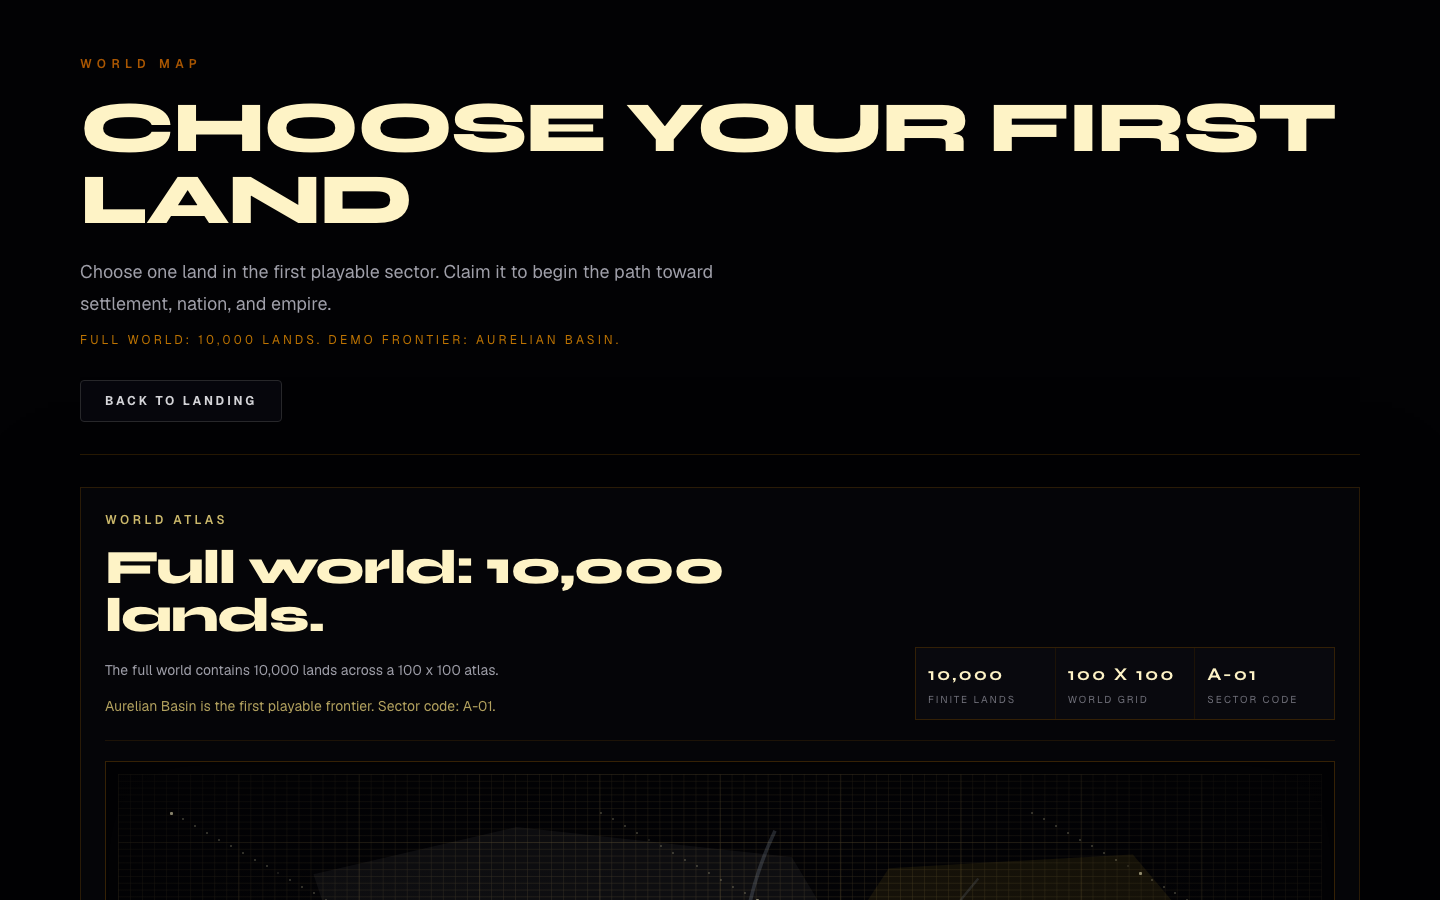
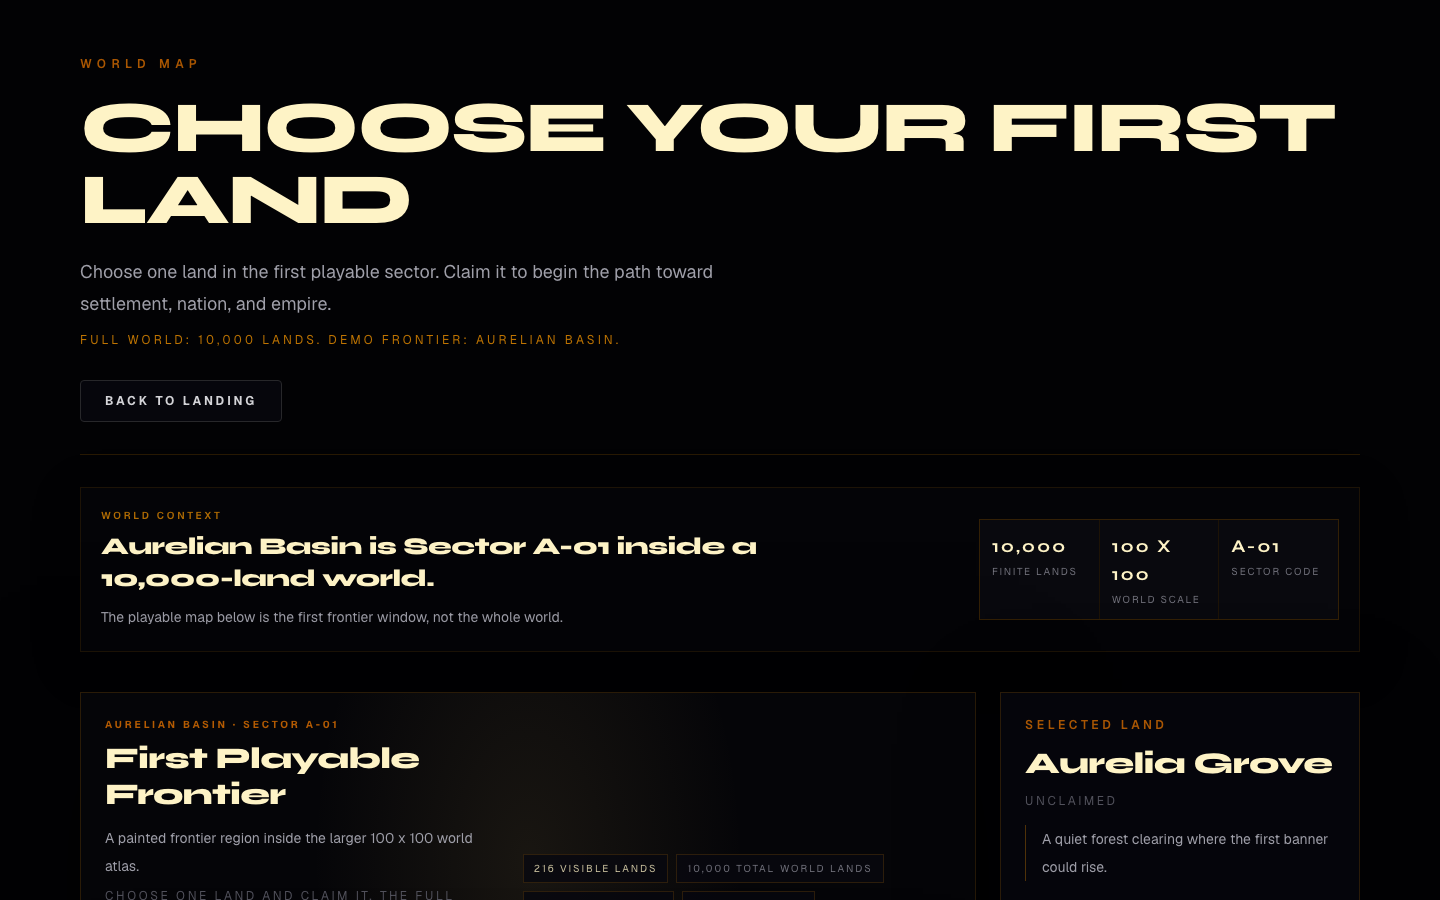
Fix world map v8 first impression hierarchy

diff --git a/app/world/page.tsx b/app/world/page.tsx
@@ -422,31 +422,28 @@ export default function WorldPage() {
         <section
           id="world-atlas"
           data-qa="world-atlas"
-          className="mt-6 overflow-hidden border border-amber-500/15 bg-[#050509]/90 p-3 shadow-[0_24px_90px_rgba(0,0,0,0.5)] sm:mt-8 sm:p-6"
+          className="mt-6 overflow-hidden border border-amber-500/10 bg-[#050509]/72 p-4 shadow-[0_12px_44px_rgba(0,0,0,0.32)] sm:mt-8 sm:p-5"
         >
-          <div className="mb-5 grid gap-5 border-b border-amber-500/10 pb-5 lg:grid-cols-[minmax(0,1fr)_420px] lg:items-end">
-            <div className="max-w-3xl">
-              <p className="text-xs font-semibold uppercase tracking-[0.3em] text-amber-200/80">
-                World Atlas
+          <div className="grid gap-4 lg:grid-cols-[minmax(0,1fr)_360px] lg:items-center">
+            <div className="max-w-2xl">
+              <p className="text-[10px] font-semibold uppercase tracking-[0.28em] text-amber-500/70">
+                World Context
               </p>
-              <h2 className="mt-4 font-[family-name:var(--font-syne)] text-3xl font-extrabold tracking-tight text-amber-100 sm:text-5xl">
-                Full world: 10,000 lands.
+              <h2 className="mt-2 font-[family-name:var(--font-syne)] text-xl font-extrabold tracking-tight text-amber-100 sm:text-2xl">
+                Aurelian Basin is Sector A-01 inside a 10,000-land world.
               </h2>
-              <p className="mt-4 text-sm leading-7 text-zinc-400">
-                The full world contains 10,000 lands across a 100 x 100 atlas.
-              </p>
-              <p className="mt-2 text-sm leading-7 text-amber-200/70">
-                Aurelian Basin is the first playable frontier. Sector code: A-01.
+              <p className="mt-2 text-sm leading-7 text-zinc-400">
+                The playable map below is the first frontier window, not the whole world.
               </p>
             </div>
-            <div className="grid grid-cols-3 gap-px border border-amber-500/10 bg-amber-500/10 text-[10px] uppercase tracking-[0.2em] text-zinc-500">
+            <div className="grid grid-cols-3 gap-px border border-amber-500/10 bg-amber-500/10 text-[10px] uppercase tracking-[0.18em] text-zinc-500">
               <div className="bg-[#08080f]/95 p-3">
                 <p className="font-[family-name:var(--font-syne)] text-lg font-bold text-amber-100">10,000</p>
                 <p className="mt-1">finite lands</p>
               </div>
               <div className="bg-[#08080f]/95 p-3">
                 <p className="font-[family-name:var(--font-syne)] text-lg font-bold text-amber-100">100 x 100</p>
-                <p className="mt-1">world grid</p>
+                <p className="mt-1">world scale</p>
               </div>
               <div className="bg-[#08080f]/95 p-3">
                 <p className="font-[family-name:var(--font-syne)] text-lg font-bold text-amber-100">A-01</p>
@@ -455,7 +452,7 @@ export default function WorldPage() {
             </div>
           </div>
 
-          <div className="relative overflow-hidden border border-amber-500/20 bg-[#030306] p-3 shadow-[inset_0_0_90px_rgba(0,0,0,0.72)] sm:p-4">
+          <div className="hidden">
             <div
               aria-hidden
               className="absolute inset-3 opacity-[0.26] [background-image:linear-gradient(rgba(201,169,98,0.5)_1px,transparent_1px),linear-gradient(90deg,rgba(201,169,98,0.5)_1px,transparent_1px)] [background-size:1%_1%]"

diff --git a/public/qa/latest/report.html b/public/qa/latest/report.html
@@ -27,7 +27,7 @@
     <header>
       <p class="eyebrow">Pixel Nations QA Report</p>
       <h1>Pixel Nations QA Report</h1>
-      <p>Generated: <code>2026-06-16T21:41:17.025Z</code></p>
+      <p>Generated: <code>2026-06-16T21:54:40.460Z</code></p>
       <p>App source: <code>existing local app</code></p>
     </header>
 
